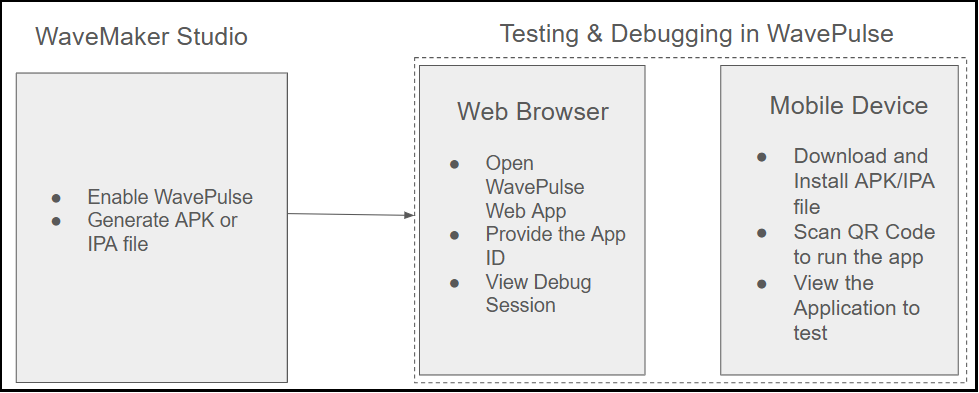
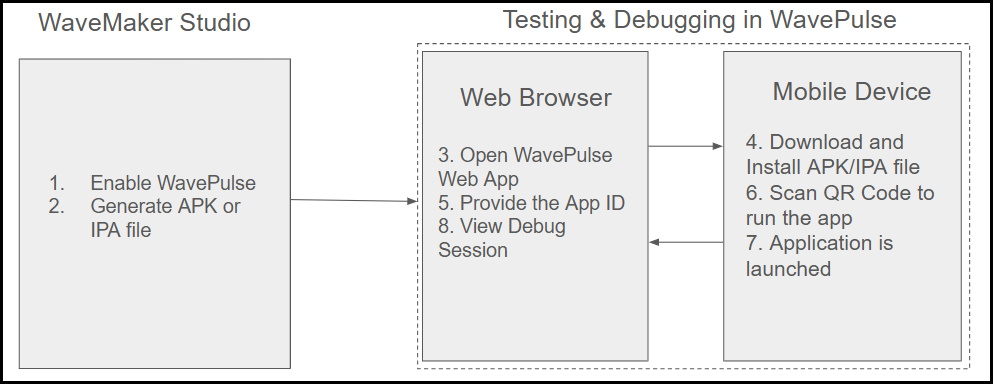
edited image and removed excess content

diff --git a/learn/react-native/wave-pulse.md b/learn/react-native/wave-pulse.md
@@ -29,12 +29,12 @@ Debugging is the process of identifying, analyzing, and resolving issues in an a
 
 ![Debugging Architecture](/learn/assets/debug-architecture.png)
 
-To debug, you need to generate the APK or IPA file using the React Native zip file. These steps are carried on two platforms.
+Debugging is carried on two platforms,
 
 - **WaveMaker Studio**: [To generate the APK or IPA file](#generating-apk-or-ipa-file-to-debug).
 - **Browser and Mobile Device**: [To test and debug the APK or IPA file in WavePulse](#testing--debugging-in-wavepulse).
 
-## Generating APK or IPA File in WaveMaker Studio
+## Configuring APK or IPA File in WaveMaker Studio
 
 An application can be debugged using the APK or IPA file. To get the APK or IPA that can be debugged using the WavePulse,
 
@@ -60,11 +60,9 @@ In the debugging process, two platforms can be used,
 - **Web Browser**: First, to open the WavePulse web application.
 - **Mobile Device**: Second, to open the APK or IPA file that needs to be debugged.
 
-Application can be viewed in the mobile device and the connection is established with WaveMaker web application opened in the browser. With this connection, you can record and view debugging session associated with the actions performed in the application.
+A connection is established between WavePulse and Application to record and view debugging session associated with the actions performed in the application.
 
 ### Establishing Connection between Web Browser and Mobile Device for debugging
-
-A connection between the WavePulse web application, opened on web browser, and the APK or IPA file, opened on mobile device, is established.
 
 You can directly navigate to any component or page in the application on the mobile device and view logs, network calls, timelines, and other details about the selected component in the debug session opened in WavePulse.
 
